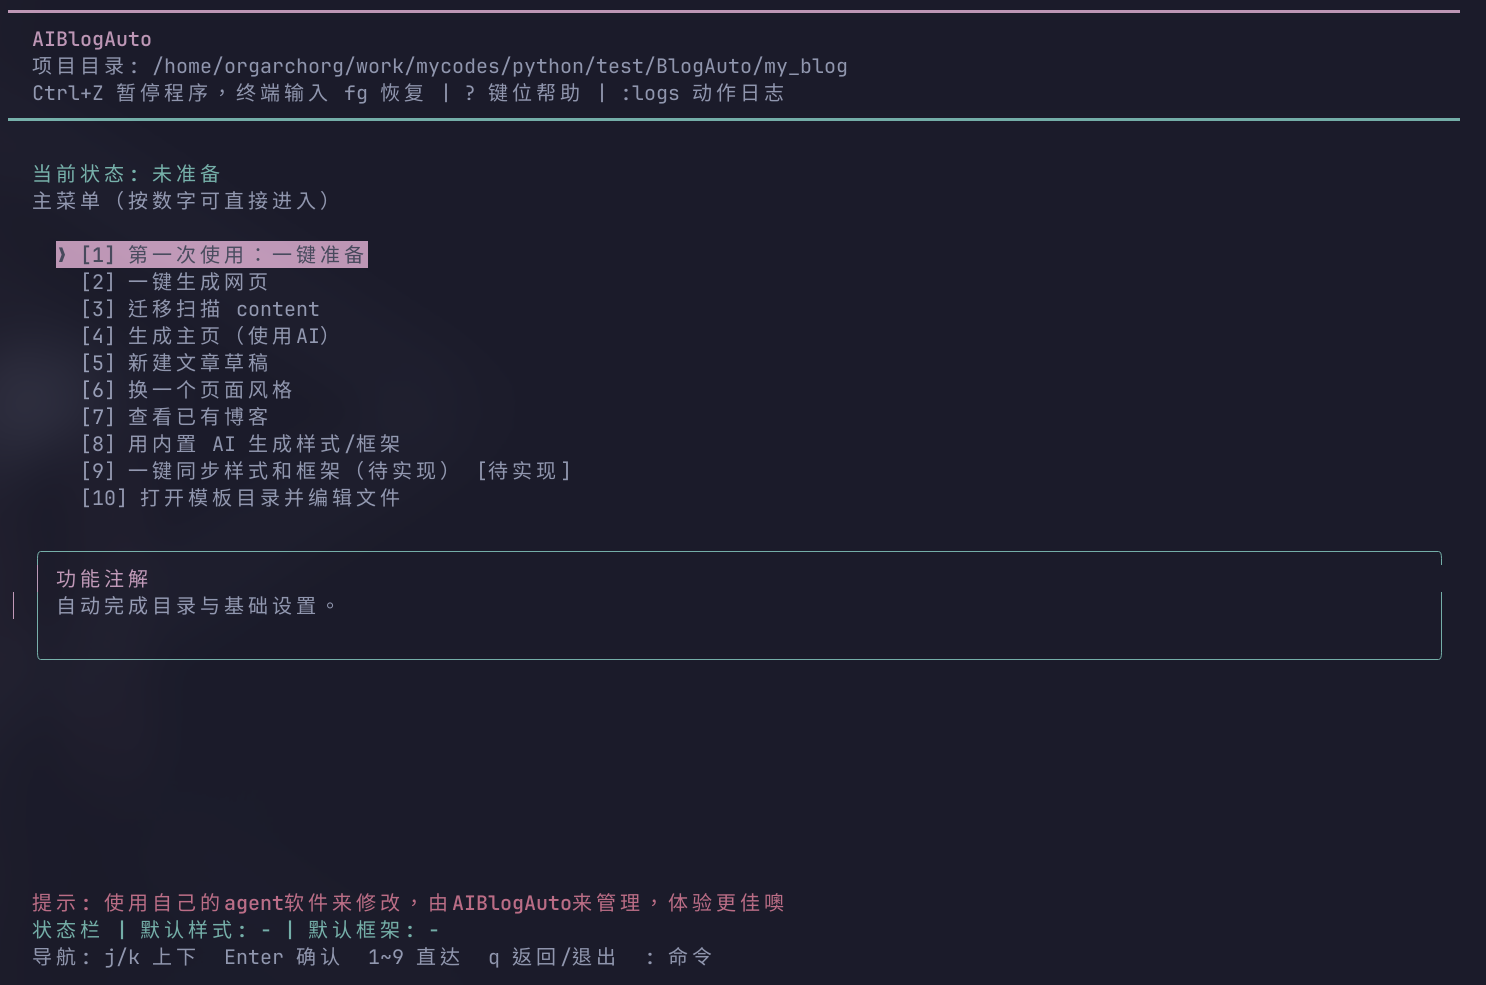
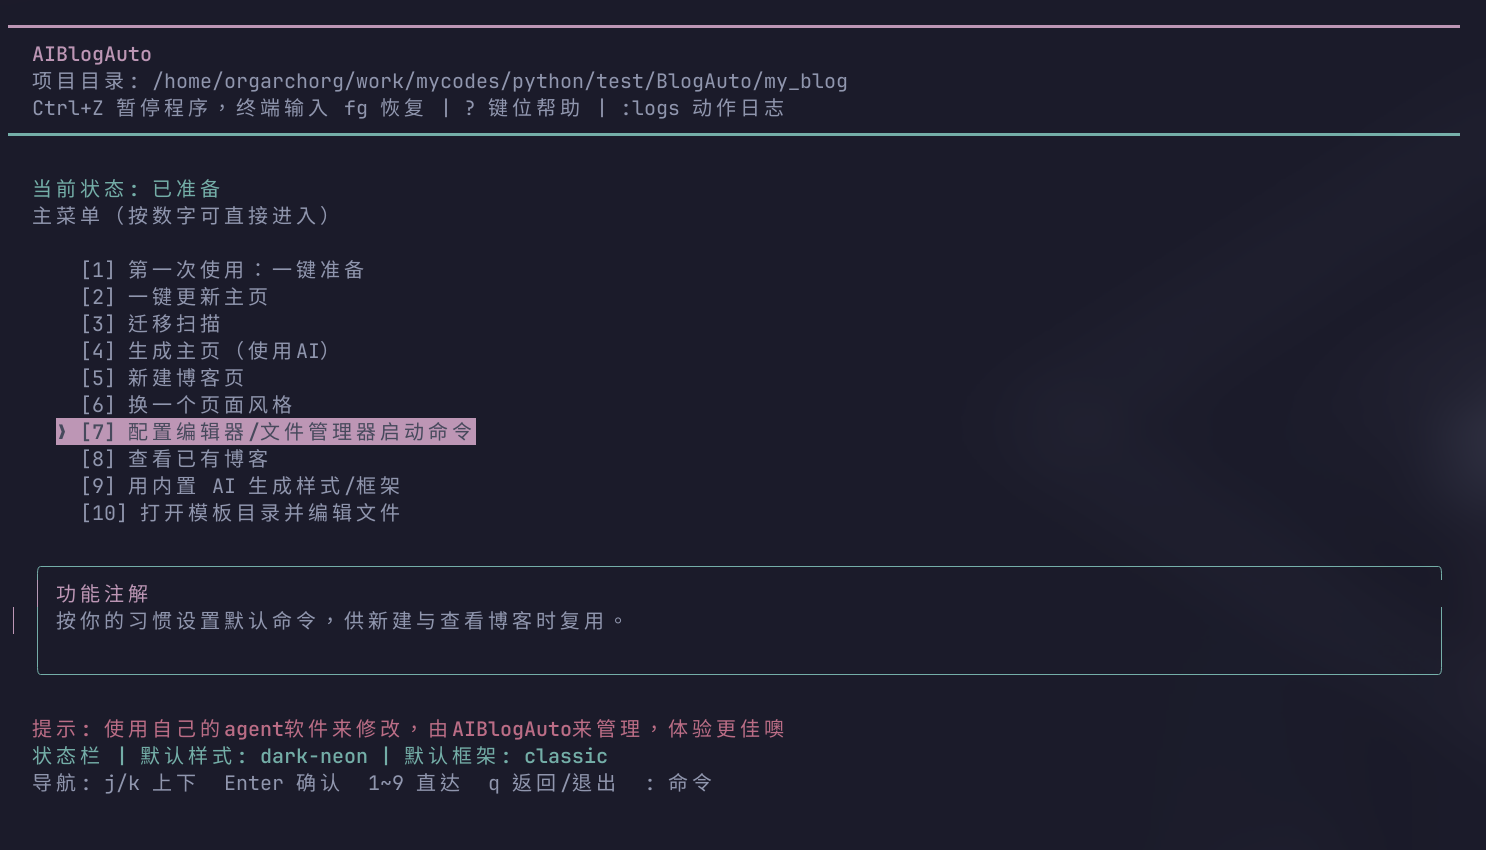
beta - almost final check

Changed region(s): [[0.0, 0.0, 0.9906, 0.7341], [0.0, 0.8259, 0.5262, 0.9788]]

diff --git a/pre_css_Loved_By_Author/cat.css b/pre_css_Loved_By_Author/cat.css
@@ -1,0 +1,265 @@
+@import url('https://fonts.googleapis.com/css2?family=JetBrains+Mono:wght@400;700&family=Orbitron:wght@400;700&display=swap');
+
+:root {
+  --neon-pink: #ff00ff;
+  --neon-blue: #00ffff;
+  --neon-green: #00ff00;
+  --dark-bg: #0a0a14;
+  --darker-bg: #05050a;
+  --terminal-text: #00ff88;
+  --glow-pink: 0 0 10px var(--neon-pink), 0 0 20px var(--neon-pink);
+  --glow-blue: 0 0 10px var(--neon-blue), 0 0 20px var(--neon-blue);
+  --glow-green: 0 0 10px var(--neon-green), 0 0 20px var(--neon-green);
+  --scanline: repeating-linear-gradient(
+    0deg,
+    rgba(0, 255, 136, 0.05) 0px,
+    rgba(0, 255, 136, 0.05) 1px,
+    transparent 1px,
+    transparent 2px
+  );
+}
+
+/* 基础重置 */
+* {
+  margin: 0;
+  padding: 0;
+  box-sizing: border-box;
+}
+
+/* 主体样式 */
+body {
+  background-color: var(--dark-bg);
+  background-image: 
+    var(--scanline),
+    radial-gradient(circle at 20% 30%, rgba(255, 0, 255, 0.1) 0%, transparent 40%),
+    radial-gradient(circle at 80% 70%, rgba(0, 255, 255, 0.1) 0%, transparent 40%);
+  color: var(--terminal-text);
+  font-family: 'JetBrains Mono', monospace;
+  line-height: 1.6;
+  min-height: 100vh;
+  position: relative;
+  overflow-x: hidden;
+}
+
+/* CRT 扫描线效果 */
+body::after {
+  content: '';
+  position: fixed;
+  top: 0;
+  left: 0;
+  width: 100%;
+  height: 100%;
+  background: linear-gradient(
+    rgba(10, 10, 20, 0) 50%,
+    rgba(0, 255, 136, 0.02) 50%
+  );
+  background-size: 100% 4px;
+  pointer-events: none;
+  z-index: 9999;
+  animation: scanline 8s linear infinite;
+}
+
+/* 主内容区域 */
+main {
+  max-width: 1200px;
+  margin: 0 auto;
+  padding: 2rem;
+  position: relative;
+  z-index: 1;
+}
+
+/* 头部样式 */
+header {
+  background: linear-gradient(90deg, 
+    rgba(255, 0, 255, 0.1) 0%,
+    rgba(0, 255, 255, 0.1) 100%);
+  border: 2px solid var(--neon-pink);
+  border-image: linear-gradient(90deg, var(--neon-pink), var(--neon-blue)) 1;
+  padding: 2rem;
+  margin-bottom: 3rem;
+  position: relative;
+  overflow: hidden;
+}
+
+header::before {
+  content: '>_';
+  position: absolute;
+  top: 10px;
+  left: 15px;
+  color: var(--neon-green);
+  font-size: 1.2rem;
+  animation: blink 1s infinite;
+}
+
+header::after {
+  content: '';
+  position: absolute;
+  top: 0;
+  left: -100%;
+  width: 100%;
+  height: 100%;
+  background: linear-gradient(90deg,
+    transparent,
+    rgba(255, 0, 255, 0.2),
+    transparent);
+  animation: glitch 3s infinite;
+}
+
+/* 文章区域 */
+article {
+  background: rgba(5, 5, 10, 0.8);
+  border: 1px solid var(--neon-blue);
+  padding: 2rem;
+  margin-bottom: 2rem;
+  position: relative;
+  backdrop-filter: blur(10px);
+  transition: all 0.3s ease;
+}
+
+article:hover {
+  box-shadow: var(--glow-blue);
+  transform: translateY(-2px);
+}
+
+article::before {
+  content: '//';
+  position: absolute;
+  top: -12px;
+  left: 20px;
+  background: var(--darker-bg);
+  padding: 0 10px;
+  color: var(--neon-blue);
+  font-size: 0.9rem;
+}
+
+/* 页脚样式 */
+footer {
+  background: rgba(0, 0, 0, 0.9);
+  border-top: 2px solid var(--neon-green);
+  padding: 2rem;
+  margin-top: 3rem;
+  text-align: center;
+  position: relative;
+}
+
+footer::before {
+  content: 'orange114';
+  position: absolute;
+  top: -15px;
+  left: 50%;
+  transform: translateX(-50%);
+  background: var(--dark-bg);
+  padding: 0 20px;
+  color: var(--neon-green);
+  font-family: 'Orbitron', sans-serif;
+  font-weight: bold;
+}
+
+/* 链接样式 */
+a {
+  color: var(--neon-pink);
+  text-decoration: none;
+  position: relative;
+  padding: 0 2px;
+  transition: all 0.3s ease;
+}
+
+a::after {
+  content: '';
+  position: absolute;
+  bottom: -2px;
+  left: 0;
+  width: 0;
+  height: 1px;
+  background: var(--neon-pink);
+  transition: width 0.3s ease;
+}
+
+a:hover {
+  color: var(--neon-blue);
+  text-shadow: var(--glow-blue);
+}
+
+a:hover::after {
+  width: 100%;
+}
+
+/* 特殊链接状态 */
+a:active {
+  color: var(--neon-green);
+  text-shadow: var(--glow-green);
+}
+
+/* 猫娘元素装饰 */
+body::before {
+  content: 'ฅ^•ﻌ•^ฅ';
+  position: fixed;
+  bottom: 20px;
+  right: 20px;
+  font-size: 2rem;
+  color: var(--neon-pink);
+  opacity: 0.3;
+  z-index: 0;
+  animation: float 4s ease-in-out infinite;
+}
+
+/* 终端光标效果 */
+@keyframes blink {
+  0%, 100% { opacity: 1; }
+  50% { opacity: 0; }
+}
+
+/* 扫描线动画 */
+@keyframes scanline {
+  0% { transform: translateY(0); }
+  100% { transform: translateY(100vh); }
+}
+
+/* 故障效果 */
+@keyframes glitch {
+  0% { left: -100%; }
+  50% { left: 100%; }
+  100% { left: -100%; }
+}
+
+/* 浮动动画 */
+@keyframes float {
+  0%, 100% { transform: translateY(0) rotate(0deg); }
+  50% { transform: translateY(-20px) rotate(5deg); }
+}
+
+/* 响应式调整 */
+@media (max-width: 768px) {
+  main {
+    padding: 1rem;
+  }
+  
+  header, article, footer {
+    padding: 1.5rem;
+  }
+  
+  body::before {
+    font-size: 1.5rem;
+    bottom: 10px;
+    right: 10px;
+  }
+}
+
+/* 滚动条样式 */
+::-webkit-scrollbar {
+  width: 12px;
+}
+
+::-webkit-scrollbar-track {
+  background: var(--darker-bg);
+  border: 1px solid var(--neon-blue);
+}
+
+::-webkit-scrollbar-thumb {
+  background: linear-gradient(45deg, var(--neon-pink), var(--neon-blue));
+  border-radius: 6px;
+}
+
+::-webkit-scrollbar-thumb:hover {
+  box-shadow: var(--glow-pink);
+}

diff --git a/blogauto/cli.py b/blogauto/cli.py
@@ -312,7 +312,7 @@ def seed_example(cfg: BlogConfig) -> None:
 
     if not article.exists():
         article.write_text(
-            "清空本文件内容后写入你的文章（你可以在这里面向AI提出要求和注意事项）。",
+            "清空本文件内容后写入你的文章的主要内容（AI会自动扩充你的文章）（你可以在这里面向AI提出要求和注意事项）。",
             encoding="utf-8",
         )
     if not prompt_file.exists():
@@ -735,7 +735,9 @@ def cmd_rescan_content_to_index(
                 "prompt_file": str((file.parent / "prompt.txt").relative_to(workspace))
                 if (file.parent / "prompt.txt").exists()
                 else "Custom",
-                "page_url": str(file.parent.relative_to(cfg.content_dir) / "index.html"),
+                "page_url": str(
+                    file.parent.relative_to(cfg.content_dir) / "index.html"
+                ),
                 "style": "Custom",
                 "framework": "Custom",
                 "created_at": datetime.now().isoformat(timespec="seconds"),
@@ -1380,7 +1382,9 @@ class VimTUIApp:
         prompt_file = result["prompt_file"]
         self._log(f"创建草稿：{slug} -> {draft_dir.relative_to(self.workspace)}")
 
-        action = self._choose_open_action("创建完成后下一步要做什么？", include_inline_ai=True)
+        action = self._choose_open_action(
+            "创建完成后下一步要做什么？", include_inline_ai=True
+        )
         if action is None:
             action = "none"
 
@@ -1847,7 +1851,9 @@ class VimTUIApp:
         except Exception as exc:
             self._show_message("打开外部工具失败", [str(exc)])
 
-    def _resolve_post_paths(self, post: dict[str, str]) -> tuple[Path | None, Path | None]:
+    def _resolve_post_paths(
+        self, post: dict[str, str]
+    ) -> tuple[Path | None, Path | None]:
         article_text = str(post.get("article_file", "")).strip()
         draft_text = str(post.get("draft_dir", "")).strip()
         article_path: Path | None = None
@@ -1873,7 +1879,9 @@ class VimTUIApp:
             return
         cfg = load_config(self.workspace)
         current_editor = cfg.default_editor.strip() or _default_editor_cmd()
-        current_manager = cfg.default_file_manager.strip() or _default_file_manager_cmd()
+        current_manager = (
+            cfg.default_file_manager.strip() or _default_file_manager_cmd()
+        )
         choice = self._choose_from_list(
             "配置默认启动命令",
             [

diff --git a/README.md b/README.md
@@ -3,21 +3,22 @@
 以 AI 为特色的模块化博客生成器（Python + DeepSeek API），现代化全屏 TUI。
 ![项目截图](./screenshot/AIBlogAuto.png "界面预览")
 
+![产出截图](./screenshot/demo_AIBlogAuto.png "产出预览")
+
 ## 特性
 
-- AI Agent: 自动生成博客
-- 霓虹粉风格界面：现代分区布局 + 高亮焦点。
-- 霓虹紫蓝红主题：全屏刷新、状态栏、焦点注解。
-- Vim 风格：`j/k` 导航、`q` 返回上一页、`?` 查看帮助。
-- 一键准备支持 AI 服务商设置：DeepSeek / OpenAI 兼容 / Anthropic / 自定义兼容接口。
-- 样式/框架模块化：统一存放在工作目录并复用，不重复复制。
-- Prompt 模板：自动生成 `prompts/*.prompt.txt` 供 Codex/Claude/Copilot 使用。
-- 提交流程：扫描内容目录维护主页文章页，并可生成变动目录页面。
+- 现代化高颜值TUI
+- AI为主题的静态博客站生成/管理工具
+- vim操作模式
+- 支持多家openai兼容格式的API,默认使用DeepSeek
+- 模块化cli，高度可定制化
 
 ## 安装
 
 ```bash
-bash scripts/install.sh
+git clone https://github.com/orangeTZ07/AIBlogAuto.git \
+&& cd AIBlogAuto \
+&& bash scripts/install.sh
 ```
 
 ## 运行
@@ -85,7 +86,7 @@ export DEEPSEEK_API_KEY="your_key_here"
 TUI 使用 Nerd Font 图标（如 `JetBrainsMono Nerd Font`）。
 
 - 下载地址: <https://www.nerdfonts.com/font-downloads>
-- 将终端字体切换为 Nerd Font 后可获得完整图标显示。
+- 将终端字体切换为 Nerd Font 后可获得完整图标显示。(这里不会的可以问问AI)
 
 ## 目录结构（初始化后）
 
@@ -98,6 +99,27 @@ TUI 使用 Nerd Font 图标（如 `JetBrainsMono Nerd Font`）。
 - `content/index.html`: 网站主页（静态站点根）
 - `changes/changes-*.html`: 提交后变动目录页
 
+## 简易教程
+
+将本程序放在你所期望的目录下(这里假设你没有使用参数进行启动)
+
+- 首先进行"一键准备"，配置你的默认样式、框架、内置agent等内容
+  - 如果你选择了"\[1\] 读取环境变量（推荐）"，程序将从环境变量读取API KEY。该程序不会将API KEY自动加入到你的`bashrc`等配置文件中。
+- 准备后，执行"用内置AI生成样式/框架"，获取你喜欢的样式/框架
+- 之后"生成主页（使用AI）"，获得你的博客站主界面
+- 然后"新建博客页"，创建你的文章
+  - 如果你期望更换`文章prompt`，你可以在`cli.py`中用文本搜索找到提示词所在代码块并修改
+- 如果你从前写了一些博客
+  - 你可以把博客所在目录（一篇博客占一个目录）复制到`my_blog/content/`下
+  - 然后运行"迁移扫描"，这会把你的博客页更新到`index.json`
+  - 如果你想要自定义你的博客属性，你可以找到`my_blog/index.json`，自行修改
+- 运行"查看已有博客"，判断是否成功写入文章
+- 然后进行"生成主页（使用AI）"
+- 自此你的静态博客站已生成完毕
+
 部署提示（以 GitHub Pages 为例）：
 
 - 部署网页时请将 `content/*` 放在仓库根目录。
+  - 可先在 content/ 目录下进行初始化git仓库
+  - 然后将该git仓库连接到你的github page仓库
+  - 使用本程序进行构建/修改后提交到你的仓库
